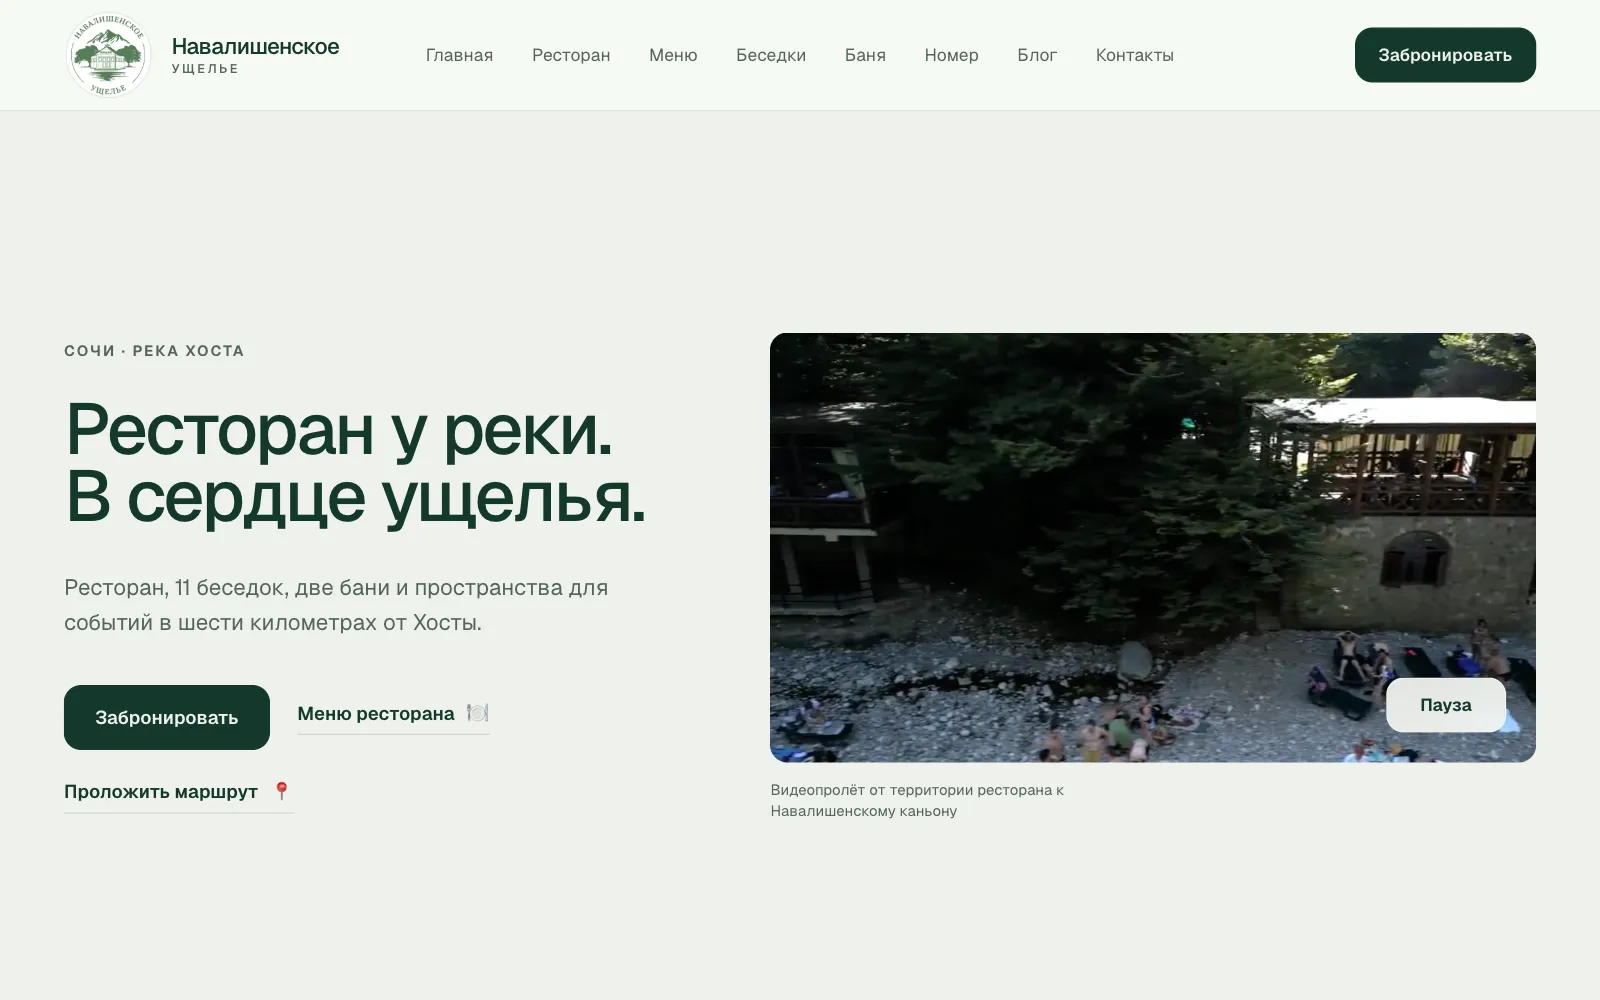
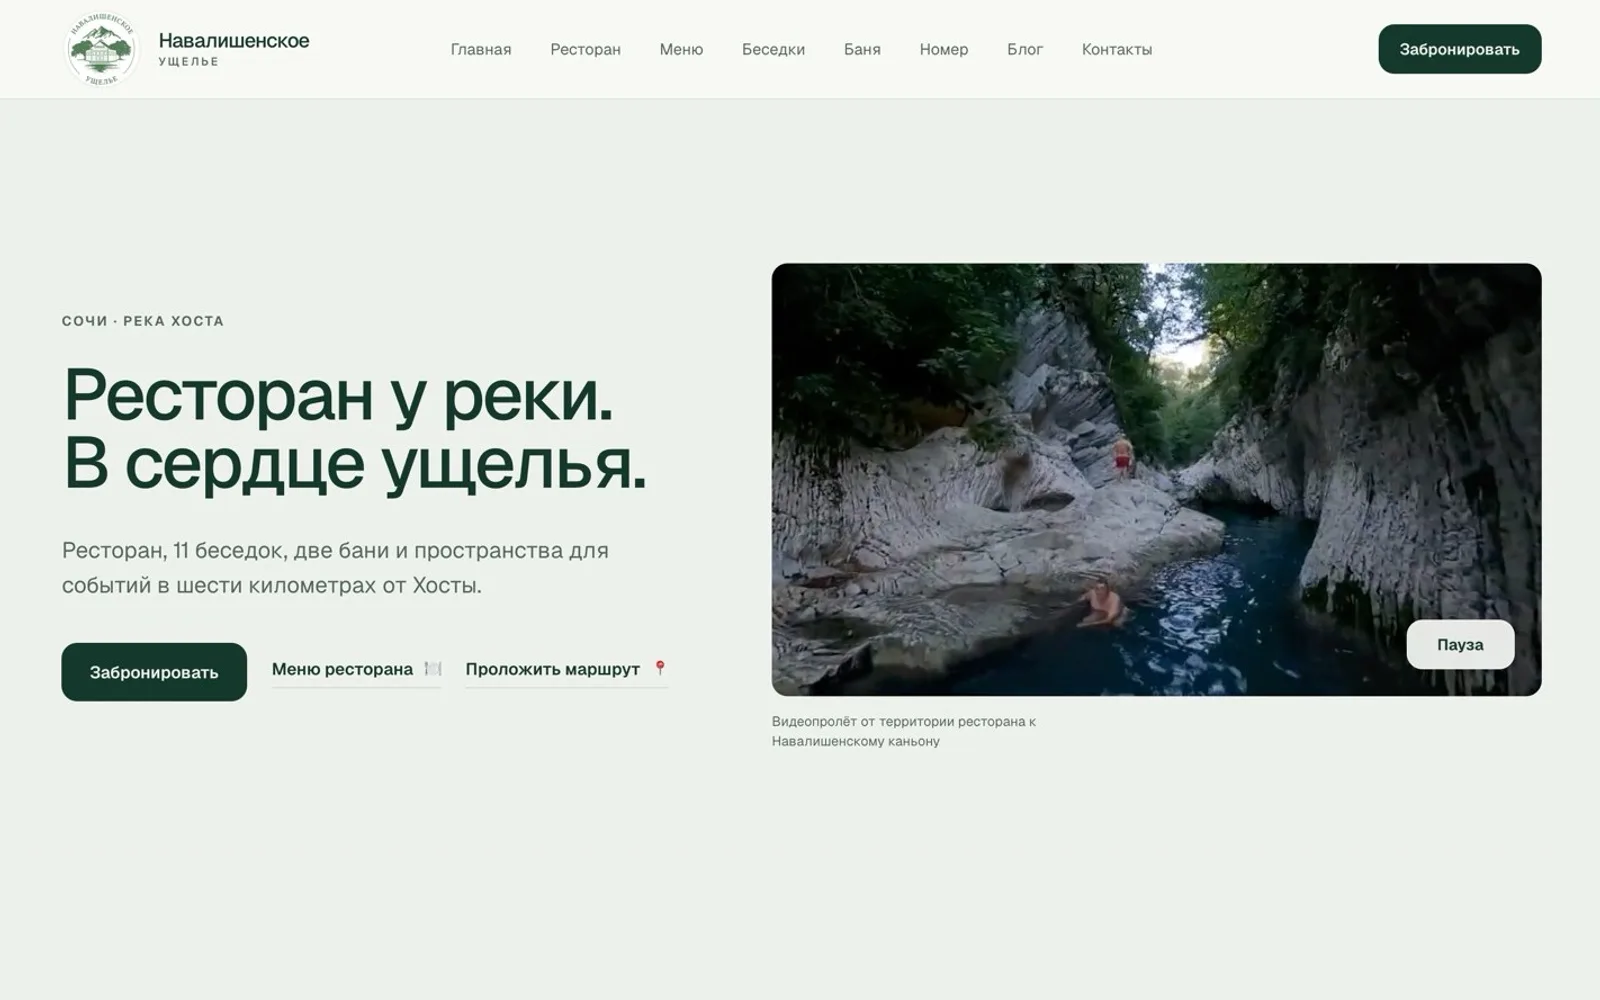
Проекты: снимок Навалишенского — скриншот владельца с каньоном

diff --git a/CHANGELOG.md b/CHANGELOG.md
@@ -1,6 +1,6 @@
 ## Правка владельца: свежий снимок Навалишенского (13.11.2026)
 
-- Сайт navalishenskoe.ru сменил дизайн — снимок первого экрана снят заново 13.11 (1600×1000, кадр из видеопролёта вместо чёрного окна). На /projects/ теперь в высоком разрешении; превью 640×400 для страниц услуг тоже обновлено.
+- Сайт navalishenskoe.ru сменил дизайн — снимок первого экрана заменён на скриншот владельца 13.11 (кадр с каньоном; рамка браузера обрезана, снизу дописан фон страницы до 16:10). На /projects/ теперь в высоком разрешении; превью 640×400 для страниц услуг тоже обновлено.
 
 ## Заказ владельца: все проекты из карточки партнёра inSales на /projects/ (13.11.2026)
 
